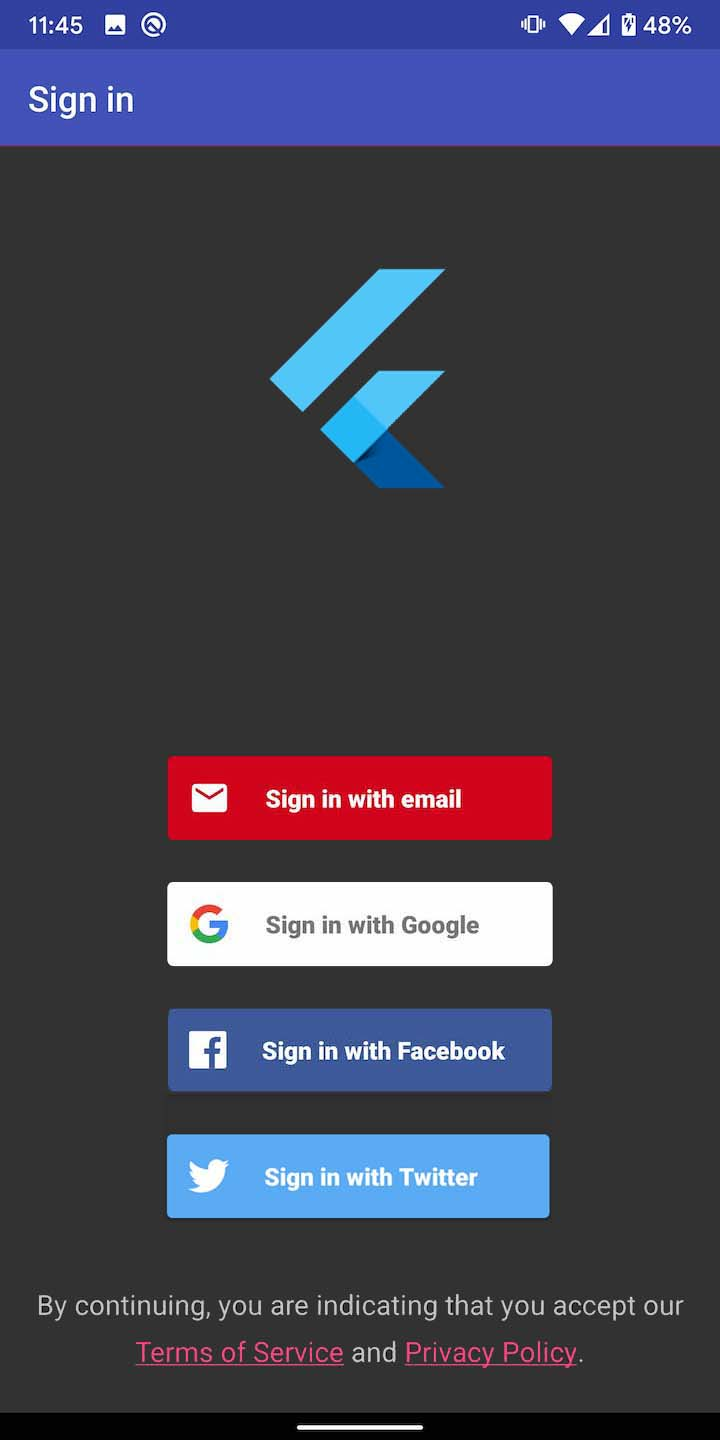
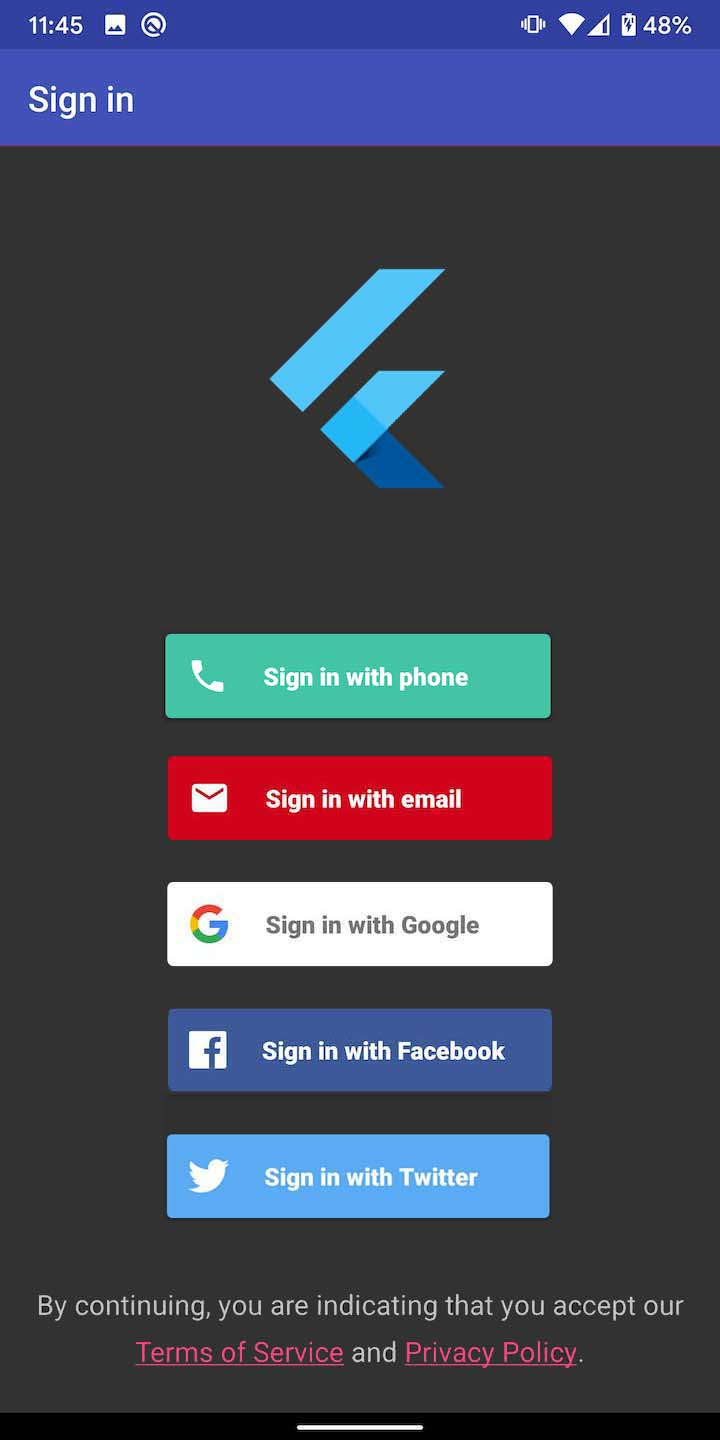
Add phone number auth + updated example and README. Closes #3

Changed region(s): [[0.2139, 0.4375, 0.7639, 0.5]]

diff --git a/example/lib/main.dart b/example/lib/main.dart
@@ -84,13 +84,14 @@ class _MyAppState extends State<MyApp> {
       // User is null, initiate auth
       FirebaseAuthUi.instance().launchAuth([
         AuthProvider.email(),
-        // Google ,facebook and twitter providers are commented because this example
+        // Google ,facebook, twitter and phone auth providers are commented because this example
         // isn't configured to enable them. Please follow the README and uncomment
         // them if you want to integrate them in your project.
 
         // AuthProvider.google(),
         // AuthProvider.facebook(),
         // AuthProvider.twitter(),
+        // AuthProvider.phone(),
       ]).then((firebaseUser) {
         setState(() {
           _error = "";

diff --git a/ios/Classes/SwiftFirebaseAuthUiPlugin.swift b/ios/Classes/SwiftFirebaseAuthUiPlugin.swift
@@ -118,6 +118,8 @@ public class SwiftFirebaseAuthUiPlugin: NSObject, FlutterPlugin, FUIAuthDelegate
                         authProviders.append(FUIFacebookAuth())
                     } else if (provider == "twitter") {
                         authProviders.append(getTwitterAuthProvider())
+                    } else if (provider == "phone") {
+                        authProviders.append(FUIPhoneAuth(authUI: authUI!))
                     }
                 }
             }

diff --git a/android/src/main/kotlin/com/firebase_auth_ui/FirebaseAuthUiPlugin.kt b/android/src/main/kotlin/com/firebase_auth_ui/FirebaseAuthUiPlugin.kt
@@ -118,6 +118,8 @@ class FirebaseAuthUiPlugin(private val activity: Activity) : MethodCallHandler, 
                         .build())
                 "twitter" -> providers.add(AuthUI.IdpConfig.TwitterBuilder()
                         .build())
+                "phone" -> providers.add(AuthUI.IdpConfig.PhoneBuilder()
+                        .build())
             }
         }
         return providers

diff --git a/lib/src/providers/auth_provider.dart b/lib/src/providers/auth_provider.dart
@@ -1,4 +1,5 @@
 import 'package:firebase_auth_ui/providers.dart';
+import 'package:firebase_auth_ui/src/providers/phone_provider.dart';
 
 abstract class AuthProvider {
   AuthProvider({this.providerId});
@@ -21,5 +22,9 @@ abstract class AuthProvider {
 
   factory AuthProvider.twitter() {
     return TwitterProvider();
+  }
+
+  factory AuthProvider.phone() {
+    return PhoneProvider();
   }
 }

diff --git a/lib/src/providers/phone_provider.dart b/lib/src/providers/phone_provider.dart
@@ -1,0 +1,12 @@
+import '../../providers.dart';
+
+class PhoneProvider extends AuthProvider {
+  PhoneProvider() : super(providerId: "phone");
+
+  @override
+  Map<String, dynamic> getMap() {
+    return {
+      'providerId': providerId,
+    };
+  }
+}

diff --git a/lib/providers.dart b/lib/providers.dart
@@ -3,3 +3,4 @@ export 'src/providers/email_provider.dart';
 export 'src/providers/facebook_provider.dart';
 export 'src/providers/google_provider.dart';
 export 'src/providers/twitter_provider.dart';
+export 'src/providers/phone_provider.dart';

diff --git a/README.md b/README.md
@@ -22,7 +22,8 @@ FirebaseAuthUi.instance()
             AuthProvider.email(), // Login/Sign up with Email and password
             AuthProvider.google(), // Login with Google
             AuthProvider.facebook(), // Login with Facebook
-	        AuthProvider.twitter(), // Login with Twitter
+	    AuthProvider.twitter(), // Login with Twitter
+	    AuthProvider.phone(), // Login with Phone number
           ],
           tosUrl: "https://my-terms-url", // Optional
           privacyPolicyUrl: "https://my-privacy-policy", // Optional,
@@ -56,7 +57,7 @@ If you want to have full `FirebaseUser` object then please add [firebase_auth](h
 
 ## Configuration
 Create a project on Firebase console and add Android and iOS platform in **Settings > Your apps**
-- Open the **Authentication** section and then navigate to **Sign in method**. Please enable Email/Password, Google, Facebook and Twitter method depending on your need and click save.
+- Open the **Authentication** section and then navigate to **Sign in method**. Please enable Email/Password, Google, Facebook, Twitter and Phone method depending on your need and click save.
 - Navigate back to **Settings > Your apps**
 - Download "google-services.json" for Android
 - Download "GoogleService-Info.plist"for iOS
@@ -75,7 +76,7 @@ Copy the downloaded **google-services.json** in [flutter_project]/android/app di
 ### iOS
 Copy the downloaded **GoogleService-Info.plist** in [[flutter_project]/ios/Runner directory.
 
-## Additional setup for Google, Facebook sign-in
+## Additional setup for Google, Facebook, Twitter and Phone sign-in
 ### Google
 #### Android
 No additional setup required.
@@ -114,7 +115,7 @@ Open open **Info.plist** ([flutter_project]/ios/Runner and paste following by re
 		</dict>
 	</array>
 ```
-**NOTE:** If you added **Google** by following above steps, you already have **CFBundleURLSchemes** key defined with **[REVERSE_CLIENT_ID]**. In that case, just add
+**NOTE:** If you have configured **Google** sign-in by following above steps, you already have **CFBundleURLSchemes** key defined with **[REVERSE_CLIENT_ID]**. In that case, just add
 ```
 <string>fb[YOUR_FACEBOOK_APP_ID]</string>
 ```
@@ -135,7 +136,13 @@ Add following lines in **strings.xml** [flutter_project]/android/app/src/main/re
 <string name="twitter_consumer_secret" translatable="false">fb[YOUR_CONSUMER_SECRET]</string>
 ```
 #### iOS
-If you have already configured Google login for iOS following above steps, then you don't need to do anything else. If not, please follow the exact same step.
+If you have already configured Google sign-in for iOS following above steps, then you don't need to do anything else. If not, please follow the exact same step.
+
+### Phone number
+#### Android
+No additional setup required.
+#### iOS
+If you have already configured Google sign-in for iOS following above steps, then you don't need to do anything else. If not, please follow the exact same step.
 
 ## Customization
 #### Add logo
